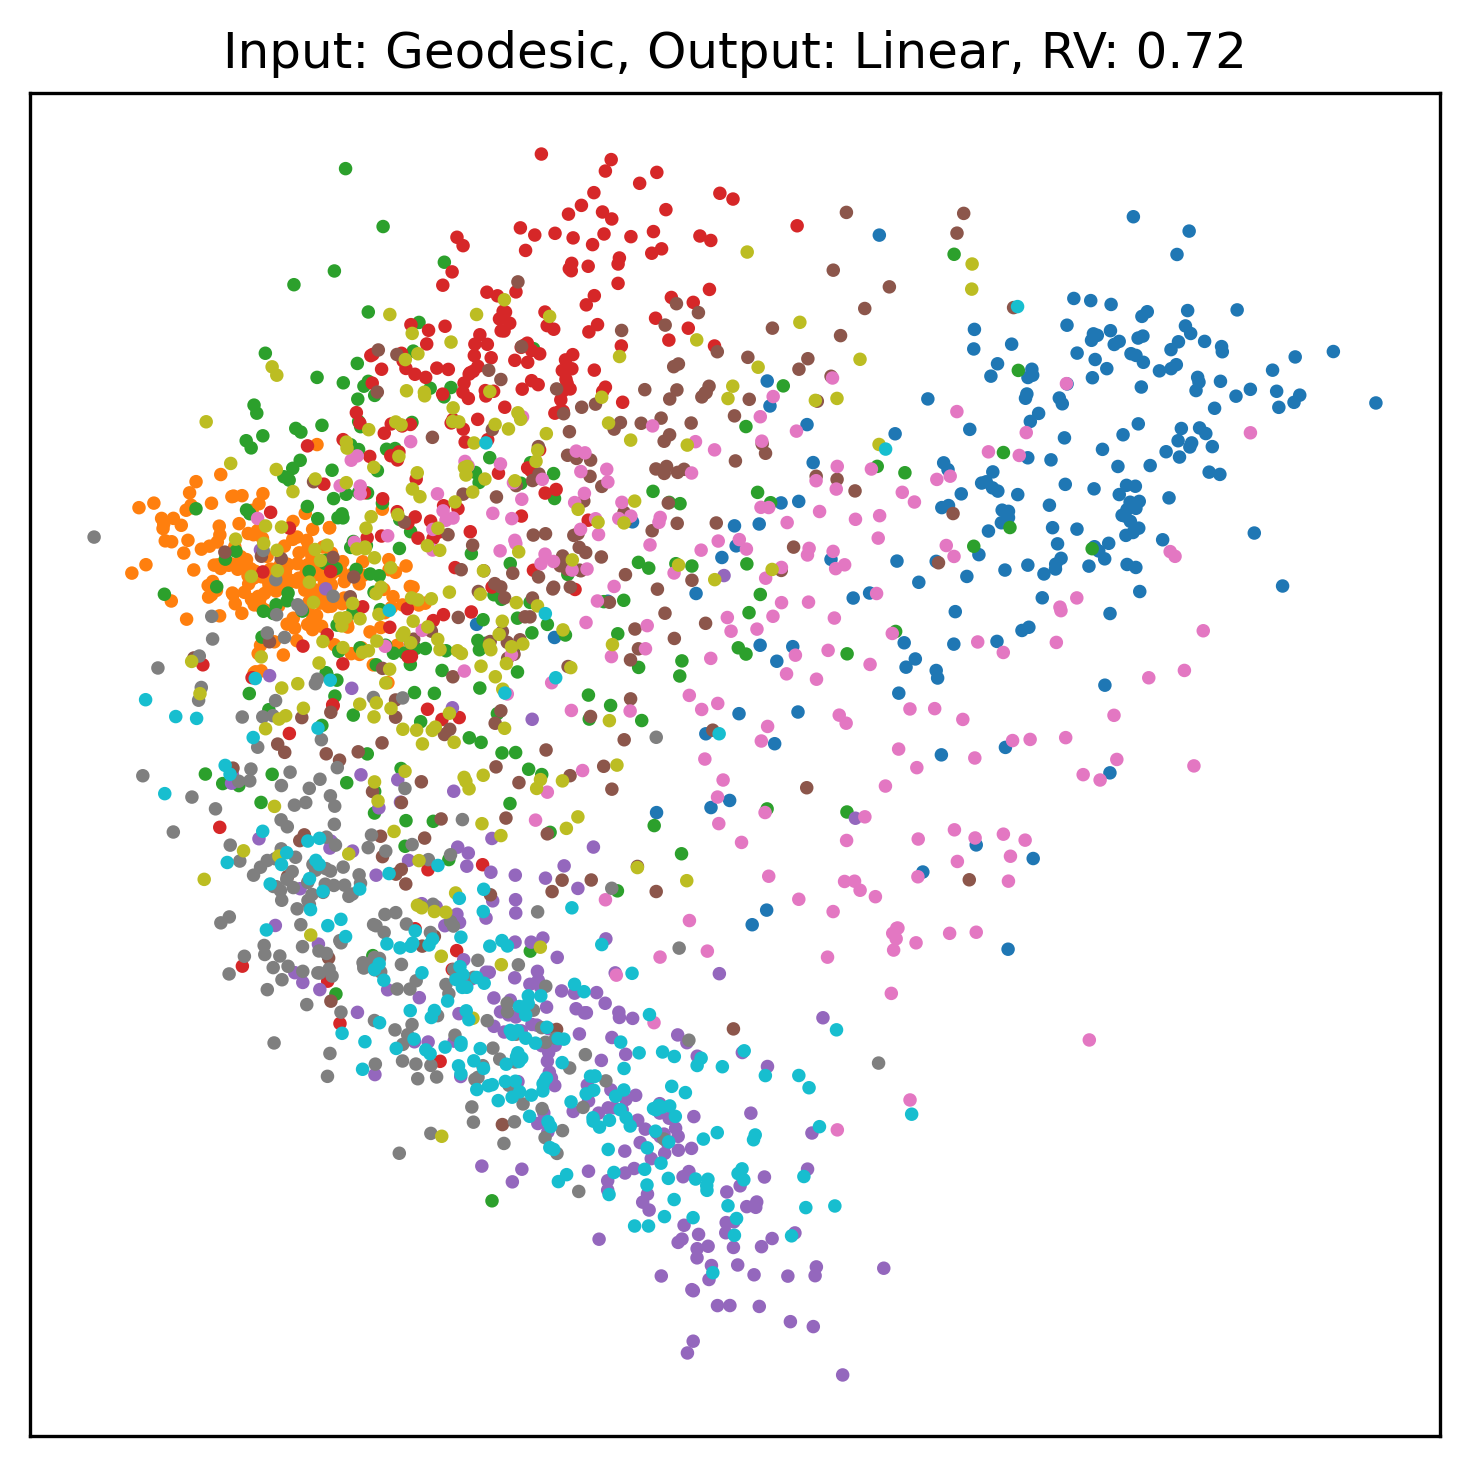
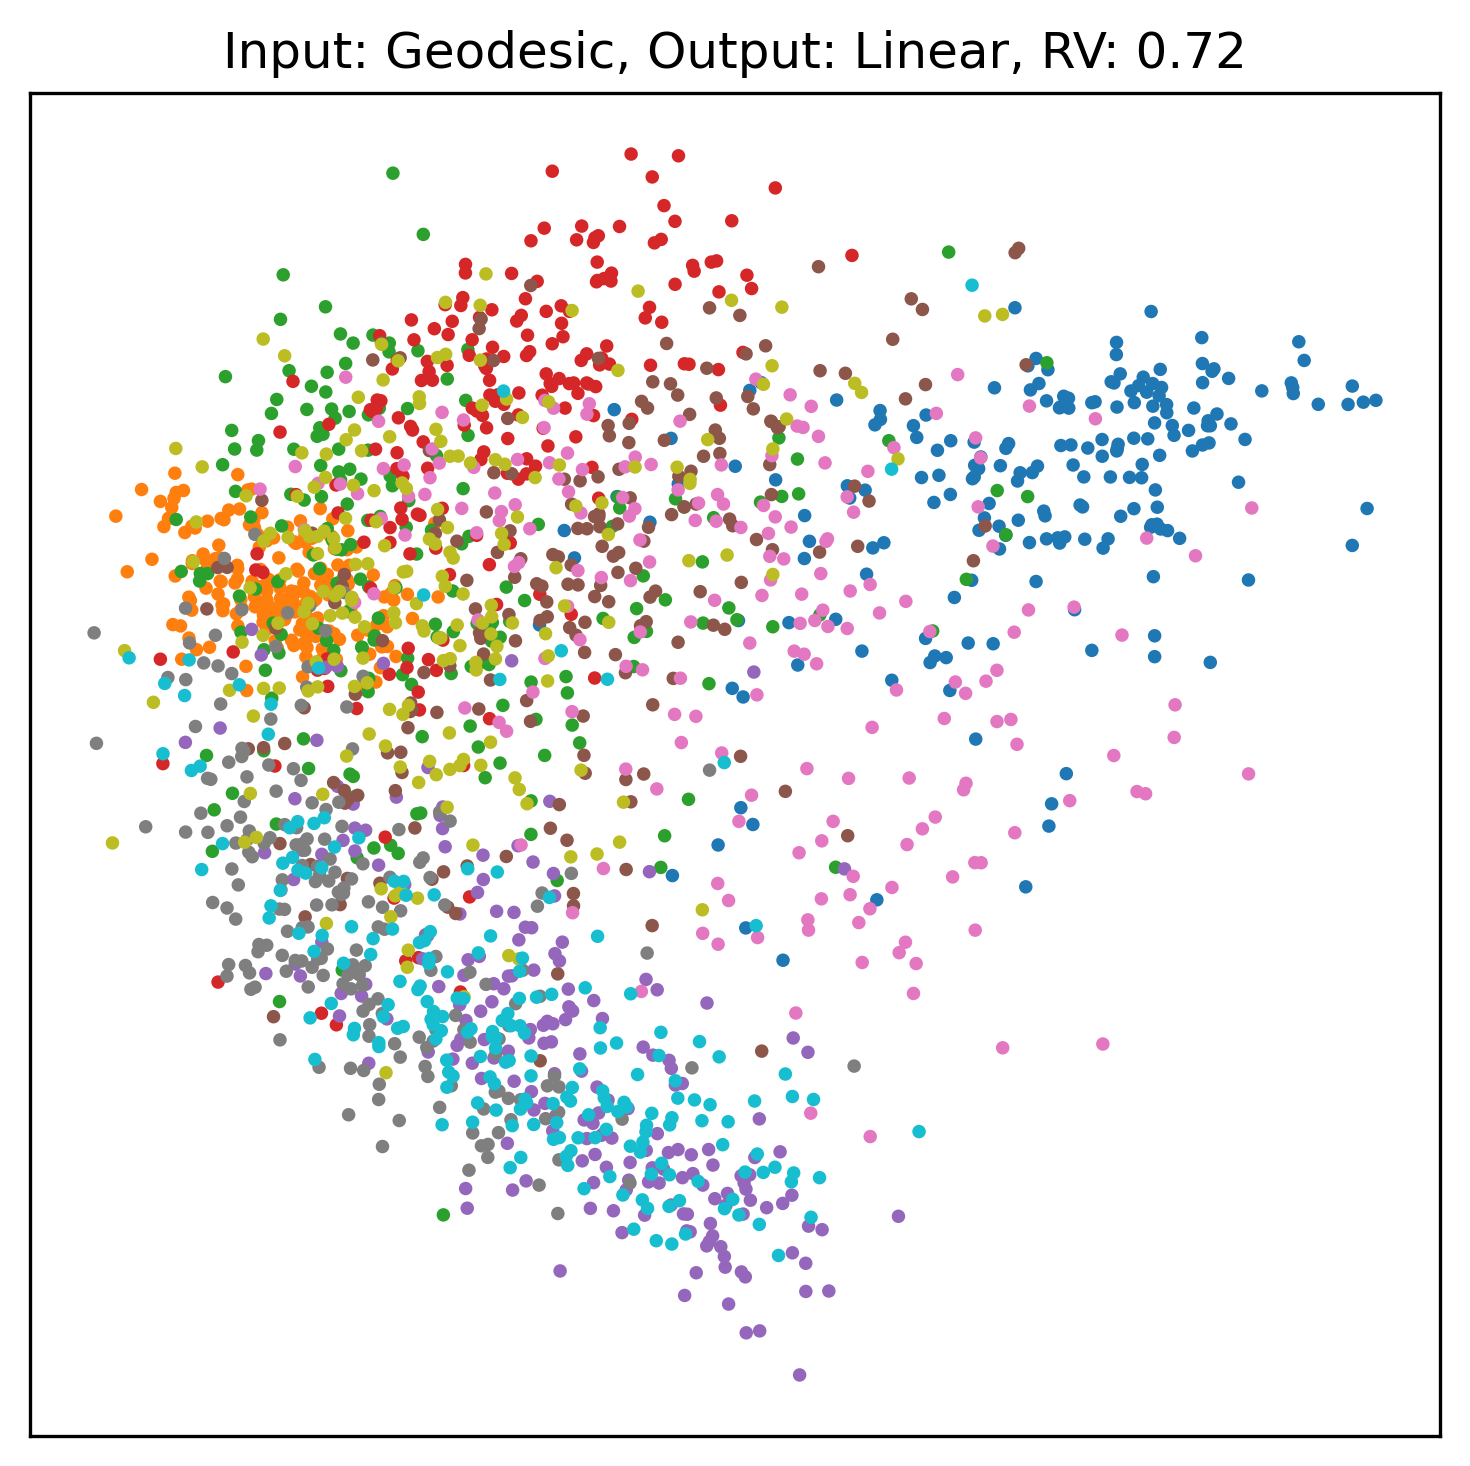
compute new results

diff --git a/mnist_combination.py b/mnist_combination.py
@@ -54,17 +54,17 @@ K_lin_in = compute_linear_kernel_torch(mnist_images_tensor,
                                        param=None, 
                                        weights=weights, device=device)
 K_geo_in_cpu = compute_geodesic_kernel(mnist_images, 
-                                       param=15,
+                                       param=20,
                                        weights=weights.to('cpu').numpy())
 K_geo_in = torch.tensor(K_geo_in_cpu, dtype=torch.float32).to(device)
 K_lle_in = compute_lle_kernel_torch(mnist_images_tensor, 
-                                    param=15, 
+                                    param=20, 
                                     weights=weights, device=device)
 K_gauss_in = compute_gaussP_kernel_torch(mnist_images_tensor, 
                                          param=gauss_params, 
                                          weights=weights, device=device)
 K_topo_in = compute_fuzzy_topo_kernel_torch(mnist_images_tensor, 
-                                            param=15,
+                                            param=20,
                                             weights=weights, device=device)
 
 kernels_in = [K_lin_in, K_geo_in, K_lle_in, K_gauss_in, K_topo_in]
